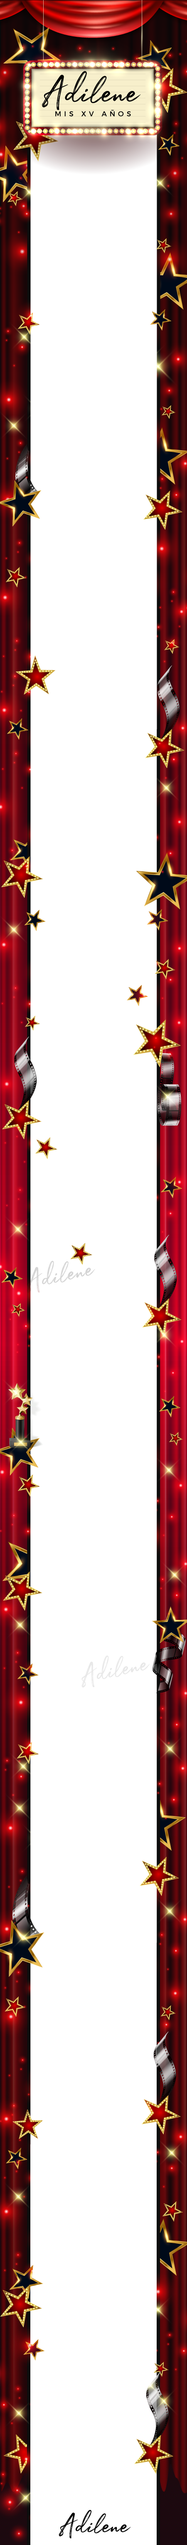
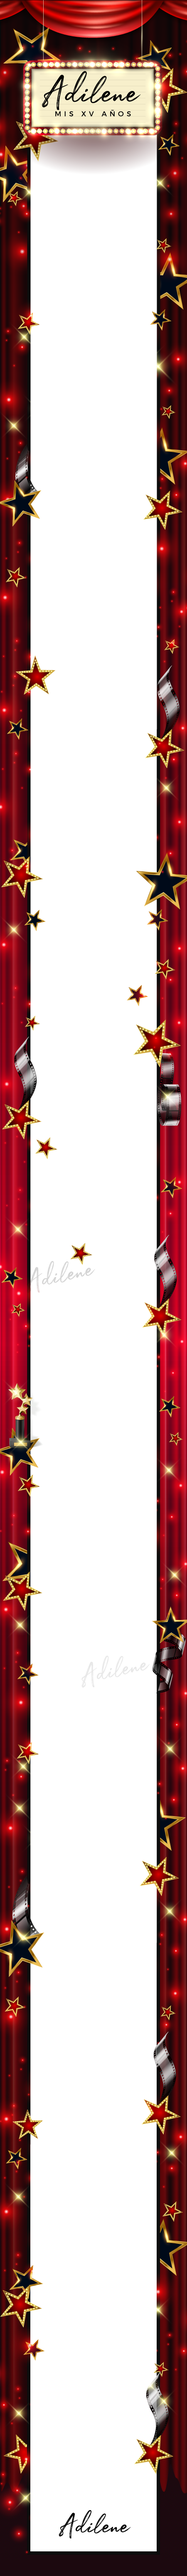
hollywood

Changed region(s): [[0.0, 0.0, 1.0, 1.0], [0.9333, 0.9657, 1.0, 0.9969], [0.3733, 0.4673, 0.4667, 0.4984]]

diff --git a/invi/invitacion_xv/hollywood/invitacion.html b/invi/invitacion_xv/hollywood/invitacion.html
@@ -32,11 +32,11 @@
        .background {
         background-image: url('img/fondo.png'); /* Ruta de tu imagen */
         background-repeat: no-repeat; /* Evita que se repita */
-        background-size: 450px 6099px; /* Tamaño exacto */
+        background-size: 450px 6173px; /* Tamaño exacto */
         background-position: top center; /* Centrado en la parte superior */
         width: 100%; /* Ancho fijo */
 		max-width: 450px; /* Ancho máximo */
-        min-height: 6099px; /* Altura exacta */
+        min-height: 6173px; /* Altura exacta */
         margin: 0 auto;
         animation: slideIn 1.5s ease-out;
 		   position: relative;
